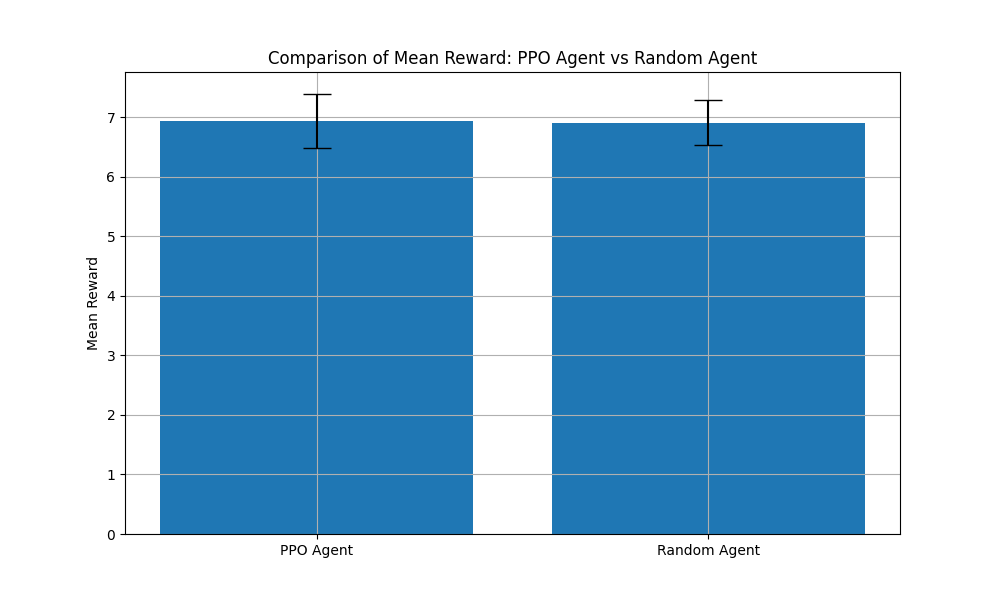
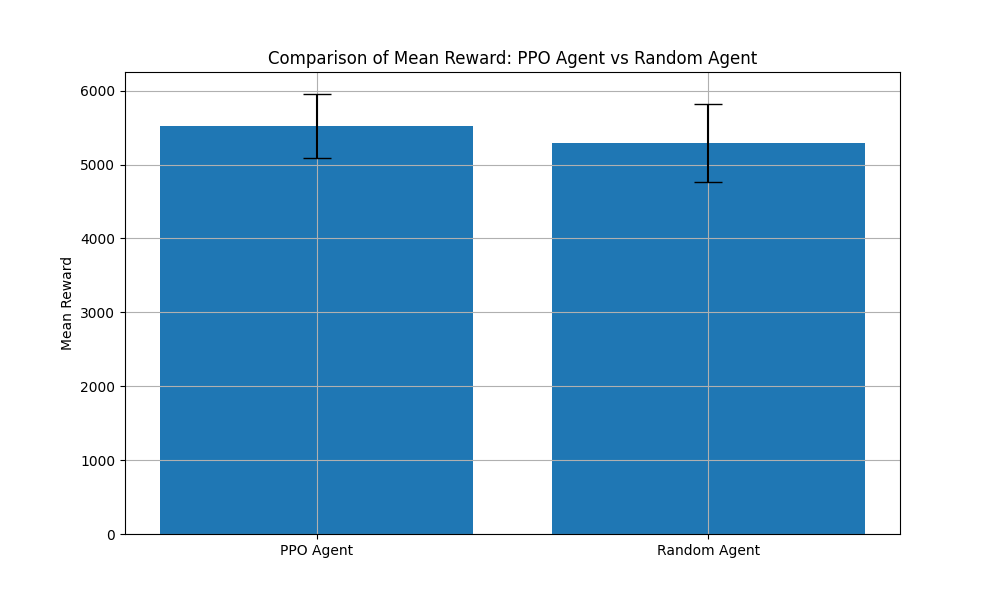
change reward structure

diff --git a/aquacroprice/envs/rice.py b/aquacroprice/envs/rice.py
@@ -24,10 +24,9 @@ config = dict(
     soil='Paddy',
     init_wc=InitialWaterContent(depth_layer=[1, 2], value=['FC', 'FC']),
     planting_date='08/01',
-    days_to_irr=3,
+    days_to_irr=1,
     max_irr=25,
     action_set='depth',
-    normalize_obs=True,
 )
 
 # Define the Rice environment class
@@ -43,7 +42,6 @@ class Rice(gym.Env):
         self.max_irr = config['max_irr']
         self.init_wc = config["init_wc"]
         self.action_set = config["action_set"]
-        self.normalize_obs = config["normalize_obs"]
         
         soil = config['soil']
         if isinstance(soil, str):
@@ -53,13 +51,11 @@ class Rice(gym.Env):
             self.soil = soil
 
         # Define observation space
-        self.observation_space = spaces.Box(low=-np.inf, high=np.inf, shape=(19,), dtype=np.float32)
+        self.observation_space = spaces.Box(low=-np.inf, high=np.inf, shape=(6,), dtype=np.float32)
         
         # Define discrete action space for irrigation depth
         self.action_space = spaces.Discrete(self.max_irr + 1)  # Discrete space from 0 to 25
-        
-        self.mean = 0
-        self.std = 1
+
 
     def reset(self, seed=None, options=None):
         print("Resetting environment...")
@@ -95,6 +91,9 @@ class Rice(gym.Env):
                                 irrigation_management=IrrigationManagement(irrigation_method=5),
                                 initial_water_content=self.init_wc)
         self.model.run_model()
+        
+        self.cumulative_reward = 0.0
+        
         obs = self._get_obs()
         info = dict()
 
@@ -105,30 +104,16 @@ class Rice(gym.Env):
         total_precipitation_last_7_days = self._get_total_precipitation_last_7_days()
         obs = np.array([
             cond.canopy_cover,
-            cond.canopy_cover_adj,
-            cond.canopy_cover_ns,
-            cond.canopy_cover_adj_ns,
             cond.biomass,
-            cond.biomass_ns,
-            cond.YieldPot,
             cond.harvest_index,
-            cond.harvest_index_adj,
-            cond.ccx_act,
-            cond.ccx_act_ns,
-            cond.ccx_w,
-            cond.ccx_w_ns,
-            cond.ccx_early_sen,
-            cond.cc_prev,
             cond.DryYield,
-            cond.FreshYield,
             cond.z_root,
             total_precipitation_last_7_days
         ], dtype=np.float32)
 
-        if self.normalize_obs:
-            return (obs - self.mean) / self.std
-        else:
-            return obs
+        print(f'Obs: ', obs)
+
+        return obs
 
     def _get_total_precipitation_last_7_days(self):
         current_day = self.model._clock_struct.time_step_counter
@@ -137,42 +122,66 @@ class Rice(gym.Env):
         return total_precipitation
 
     def step(self, action):
-        depth = np.clip(action, 0, self.max_irr)  # Action is already an integer within this range
+        depth = np.clip(action, 0, self.max_irr)  # Clip the action to ensure it's within the valid range
         self.model.irrigation_management.depth = depth
         print(f"Applied irrigation depth: {depth}")
         
-        self.model.run_model(initialize_model=False)
+        self.model.run_model(initialize_model=False)  # Run the model for the current timestep
         print(f'Timestep: ', self.model._clock_struct.time_step_counter)
         
         terminated = self.model._clock_struct.model_is_finished
         truncated = False
         next_obs = self._get_obs()
 
+        # Define the weights for rewards
+        intermediate_reward_weight = 0.05  # Lower weight for intermediate rewards
+        final_reward_weight = 20.0  # Higher weight for the final reward based on yield
+
+        # Extract relevant observations
+        biomass = next_obs[1]
+        harvest_index = next_obs[2]
+        canopy_cover = next_obs[0]
+
+        # Calculate intermediate reward based on the current growth stage
+        if self.model._clock_struct.time_step_counter < 50:  # Early to mid-season
+            reward = intermediate_reward_weight * (
+                (biomass * 0.5) + 
+                (canopy_cover * 0.3) + 
+                (harvest_index * 0.2)
+            )
+        else:  # Late season
+            reward = intermediate_reward_weight * (
+                (biomass * 0.7) + 
+                (harvest_index * 0.3)
+            )
+        
+        # Accumulate the intermediate reward
+        self.cumulative_reward += reward
+
+        # Handle episode termination
         if terminated:
             dry_yield = self.model._outputs.final_stats['Dry yield (tonne/ha)'].mean()
-            reward = dry_yield
-            print(f'Chosen Year: {self.simcalyear}')
-            print(f'Final Reward: {reward} (Dry Yield: {dry_yield})')
-        else:
-            reward = 0.0
+            final_reward = dry_yield * final_reward_weight  # Emphasize the final yield reward
 
+            # Add a penalty if the dry yield is below a certain threshold (optional)
+            penalty_threshold = 6.5  # Example threshold for low yield
+            if dry_yield < penalty_threshold:
+                penalty = -500.0  # Penalty for low yield
+                self.cumulative_reward += penalty
+                print(f'Applied Penalty: {penalty} due to low yield: {dry_yield}')
+
+            # Add the final reward to the cumulative reward
+            self.cumulative_reward += final_reward
+            reward = self.cumulative_reward  # The final reward is the cumulative reward
+
+            print(f'Final Cumulative Reward: {reward} (Dry Yield: {dry_yield})')
+        
+        # Info dictionary for additional details (optional, can be used for debugging)
         info = dict()
 
+        # Return the next observation, the reward, whether the episode is terminated, and additional info
         return next_obs, reward, terminated, truncated, info
 
-    def get_mean_std(self, num_reps):
-        self.mean = 0
-        self.std = 1
-        obs = []
-        for _ in range(num_reps):
-            self.reset(seed=0)
 
-            done = False
-            while not done:
-                observation, reward, done, _, _ = self.step(np.random.randint(0, 2))  # Randomly choosing 0 or 1 action
-                obs.append(observation)
 
-        obs = np.vstack(obs)
-        self.mean = obs.mean(axis=0)
-        self.std = obs.std(axis=0)
-        self.std[self.std == 0] = 1
+

diff --git a/train.py b/train.py
@@ -81,7 +81,7 @@ model = PPO(
 experiment.log_parameters(ppo_params)
 
 # Train the PPO model
-model.learn(total_timesteps=100000, callback=reward_logging_callback)
+model.learn(total_timesteps=20000, callback=reward_logging_callback)
 
 # Evaluate the PPO agent using Stable Baselines' `evaluate_policy`
 ppo_mean_reward, ppo_std_reward = evaluate_policy(model, env, n_eval_episodes=10, return_episode_rewards=False)
